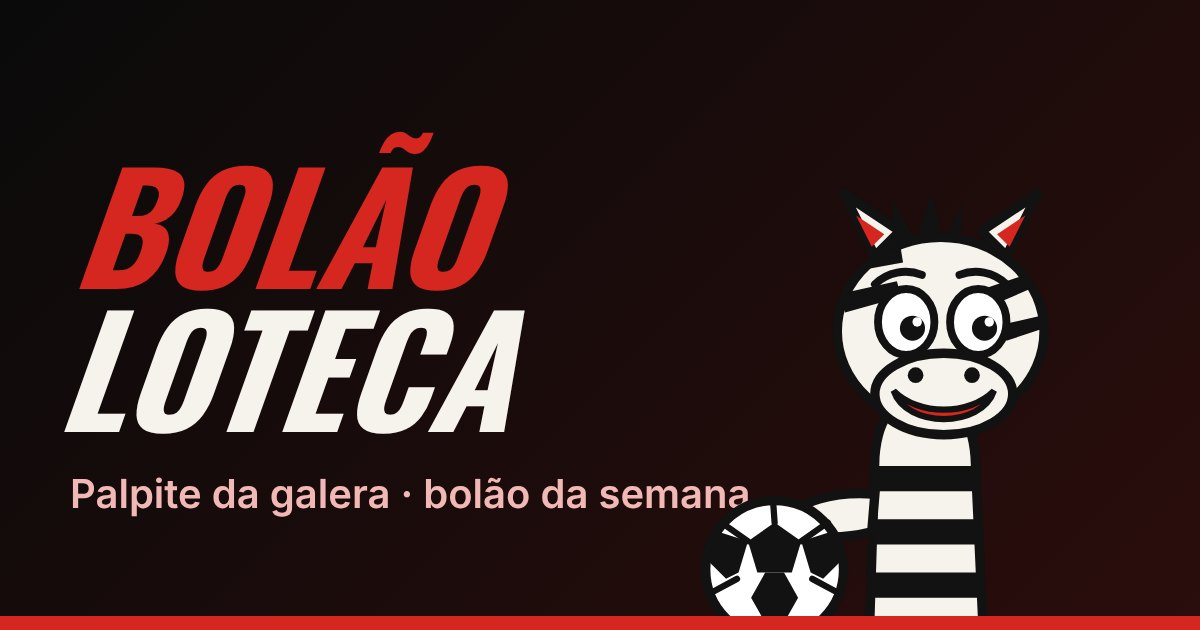
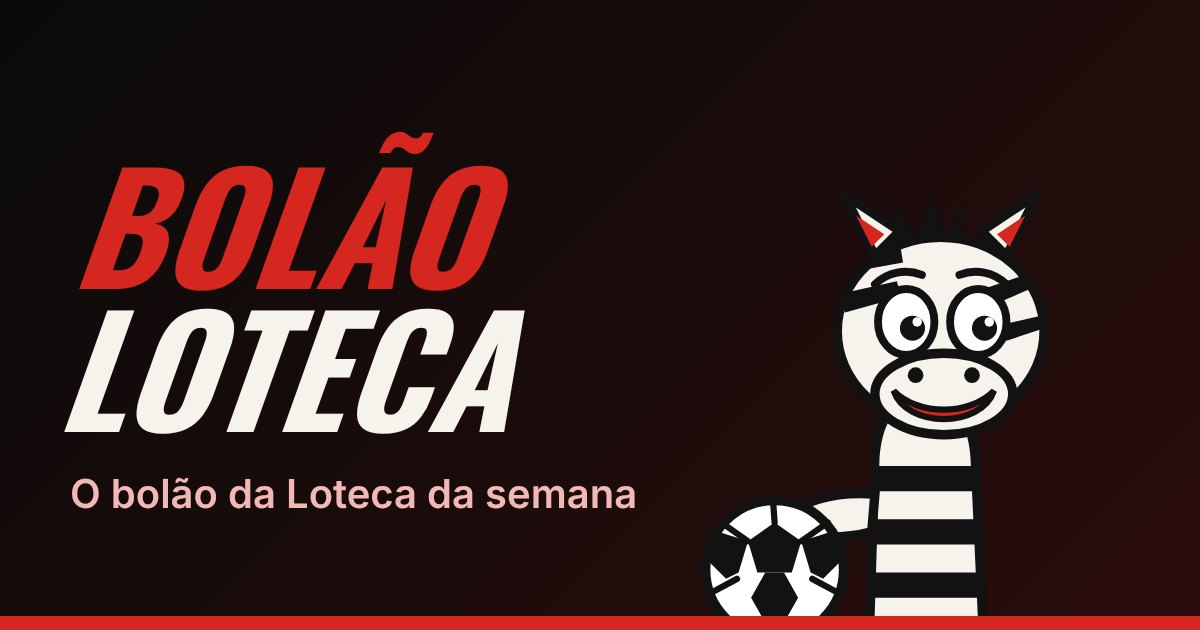
Versão enxuta: palpites, ranking e Minha área desligados por enquanto (chave CONFIG.palpites); sai o card de maiores prêmios
Claude-Session: https://claude.ai/code/session_01FtpFSFmxpKtxfYzjuLYae8

Changed region(s): [[0.0617, 0.754, 0.6167, 0.8143]]

diff --git a/index.html b/index.html
@@ -3,10 +3,10 @@
 <head>
 <meta charset="utf-8">
 <meta name="viewport" content="width=device-width, initial-scale=1">
-<title>Bolão Loteca · palpite da galera e bolão da semana</title>
-<meta name="description" content="A Loteca da semana: grade dos 14 jogos, bolão, palpite da galera, palpite do povo, ranking e a história da Loteria Esportiva.">
-<meta property="og:title" content="Bolão Loteca · palpite da galera">
-<meta property="og:description" content="Dê seu 1, X ou 2 nos 14 jogos da semana e veja o que a galera está achando.">
+<title>Bolão Loteca · o bolão da Loteca da semana</title>
+<meta name="description" content="A Loteca da semana: os 14 jogos, o prêmio, o bolão com cota e a história da Loteria Esportiva.">
+<meta property="og:title" content="Bolão Loteca · o bolão da Loteca da semana">
+<meta property="og:description" content="Os 14 jogos da semana, o prêmio e o bolão com cota.">
 <meta property="og:type" content="website">
 <meta property="og:url" content="https://bolaoloteca.com.br/">
 <meta property="og:locale" content="pt_BR">
@@ -200,10 +200,10 @@ footer a{color:var(--rosa)}
     </button>
     <nav id="menu" aria-label="Navegação">
       <a href="#bolao">Bolão</a>
-      <a href="#palpite">Dar palpite</a>
-      <a href="#povo">Palpite do povo</a>
-      <a href="#ranking">Ranking</a>
-      <a href="#conta">Minha área</a>
+      <a data-palp href="#palpite">Dar palpite</a>
+      <a data-palp href="#povo">Palpite do povo</a>
+      <a data-palp href="#ranking">Ranking</a>
+      <a data-palp href="#conta">Minha área</a>
       <a href="#historia">História</a>
       <a href="#mais">Mais bolões</a>
     </nav>
@@ -258,7 +258,7 @@ footer a{color:var(--rosa)}
     </div>
     <div class="chips">
       <a class="chip r" href="#bolao">Ver o bolão</a>
-      <a class="chip" href="#palpite">Dar meu palpite</a>
+      <a data-palp class="chip" href="#palpite">Dar meu palpite</a>
     </div>
   </div>
 </div>
@@ -345,7 +345,6 @@ footer a{color:var(--rosa)}
     <div class="hc"><span class="ano">1972</span><b>O primeiro milionário</b><p>Uma zebra num Corinthians x Juventus, no Pacaembu, fez o primeiro milionário da modalidade: Eduardo Varela, o "Dudu da Loteca".</p></div>
     <div class="hc"><span class="ano">70–80</span><b>A zebrinha da TV</b><p>Por anos, o domingo à noite começava com os resultados da Loteria Esportiva na televisão, com uma zebrinha desenhada avisando as surpresas. Foi assim que "deu zebra" entrou na boca do povo.</p></div>
     <div class="hc"><span class="ano">2002</span><b>Vira Loteca</b><p>A Loteria Esportiva ganhou novo nome e novo formato. Hoje são 14 jogos, e ganha quem acerta 13 ou 14.</p></div>
-    <div class="hc"><span class="ano" id="hojeAno">hoje</span><b>Os maiores prêmios</b><p id="premiosTxt">Em breve: o ranking dos maiores prêmios já pagos pela Loteca.</p></div>
   </div>
 </section>
 <section class="w" id="mais">
@@ -362,13 +361,13 @@ footer a{color:var(--rosa)}
 <footer>
   <div class="w">
     <div>
-      <div><b>Bolão Loteca</b> · palpite da galera e bolão da semana</div>
+      <div><b>Bolão Loteca</b> · o bolão da Loteca da semana</div>
       <div>Bolões registrados na Vilela &amp; Granhani Ltda Me (Lotérica da Avenida), Pirassununga/SP · código 001926</div>
       <div><a href="https://loterias24horas.com.br" target="_blank" rel="noopener">Loterias 24 Horas</a> · <a href="https://lotoavenida.com.br" target="_blank" rel="noopener">Lotérica da Avenida</a> · <a id="rdWa" rel="noopener">WhatsApp</a></div>
     </div>
     <div style="max-width:520px">
       <div><b>Proibido para menores de 18 anos. Jogue com responsabilidade.</b></div>
-      <div>O palpite da galera é uma brincadeira gratuita e não é aposta nem dá direito a prêmio. Este site não é da Caixa; as compras on-line são feitas nos canais oficiais das Loterias Caixa.</div>
+      <div><span data-palp>O palpite da galera é uma brincadeira gratuita e não é aposta nem dá direito a prêmio. </span>Este site não é da Caixa; as compras on-line são feitas nos canais oficiais das Loterias Caixa.</div>
     </div>
   </div>
 </footer>
@@ -381,6 +380,7 @@ var CONFIG = {
   site24h: "https://loterias24horas.com.br",
   loterica: "https://lotoavenida.com.br",
   site: "https://bolaoloteca.com.br",
+  palpites: false,   // true liga de volta: palpite da galera, palpite do povo, ranking e Minha área
   api: ""   // URL do Apps Script (termina em /exec). Vazio = o palpite vai pelo WhatsApp
 };
 var LOTECA = {
@@ -418,6 +418,9 @@ if(TESTE){
       if(TESTE_FINAL){ o.r="1X21X21X21X21X".charAt(i); o.placar = o.r==="1"?"2 x 1":o.r==="X"?"1 x 1":"0 x 2"; } return o; }) };
   document.getElementById("faixaTeste").hidden=false;
 }
+var PALP = CONFIG.palpites || TESTE;   // no modo teste (?teste=1) os palpites continuam visíveis
+if(!PALP){ ["palpite","povo","ranking","conta"].forEach(function(id){ document.getElementById(id).hidden=true; });
+  Array.prototype.forEach.call(document.querySelectorAll("[data-palp]"),function(x){ x.hidden=true; }); }
 function guarda(k,v){ try{ localStorage.setItem(k,v); }catch(e){} }
 function pega(k){ try{ return localStorage.getItem(k)||""; }catch(e){ return ""; } }
 function fmtFone(x){ var d=String(x).replace(/\D/g,"").slice(0,11);
@@ -446,8 +449,8 @@ var cdEl=document.getElementById("hCd");
 function falta(ms){var m=Math.floor(ms/60000),d=Math.floor(m/1440),h=Math.floor(m%1440/60),mi=m%60;
   if(d>0)return d+(d>1?" dias, ":" dia, ")+h+"h e "+dd(mi)+"min"; if(h>0)return h+"h "+dd(mi)+"min"; return mi+" min";}
 function tique(){ if(!FECHA||!TEM||RES){cdEl.hidden=true;return;} var ms=FECHA-Date.now();
-  if(ms<=0){cdEl.hidden=false; cdEl.className="cd"; cdEl.textContent="Palpites encerrados"; travar(); return;}
-  cdEl.hidden=false; cdEl.className="cd"+(ms<3*3600e3?" urg":""); cdEl.textContent="⏰ Palpites fecham em "+falta(ms); }
+  if(ms<=0){cdEl.hidden=false; cdEl.className="cd"; cdEl.textContent=PALP?"Palpites encerrados":"Apostas encerradas"; travar(); return;}
+  cdEl.hidden=false; cdEl.className="cd"+(ms<3*3600e3?" urg":""); cdEl.textContent=(PALP?"⏰ Palpites fecham em ":"⏰ Apostas fecham em ")+falta(ms); }
 
 (function(){
   var bx=document.getElementById("bolaoBox"), b=LOTECA.bolao;
